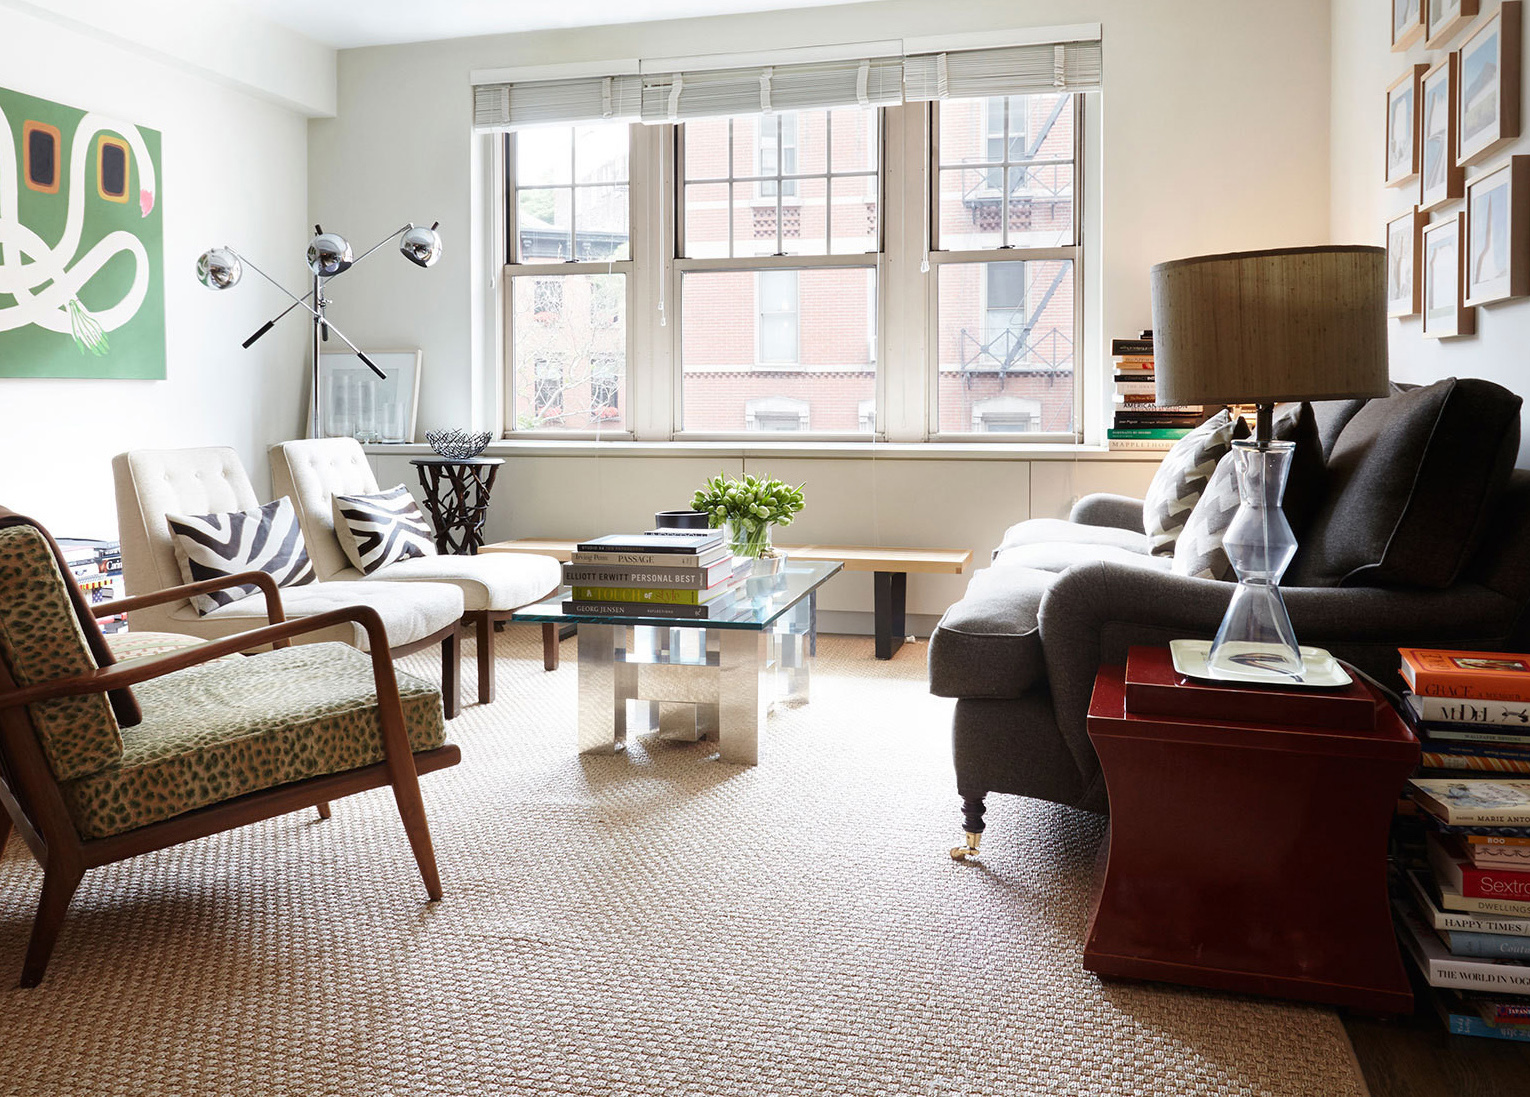
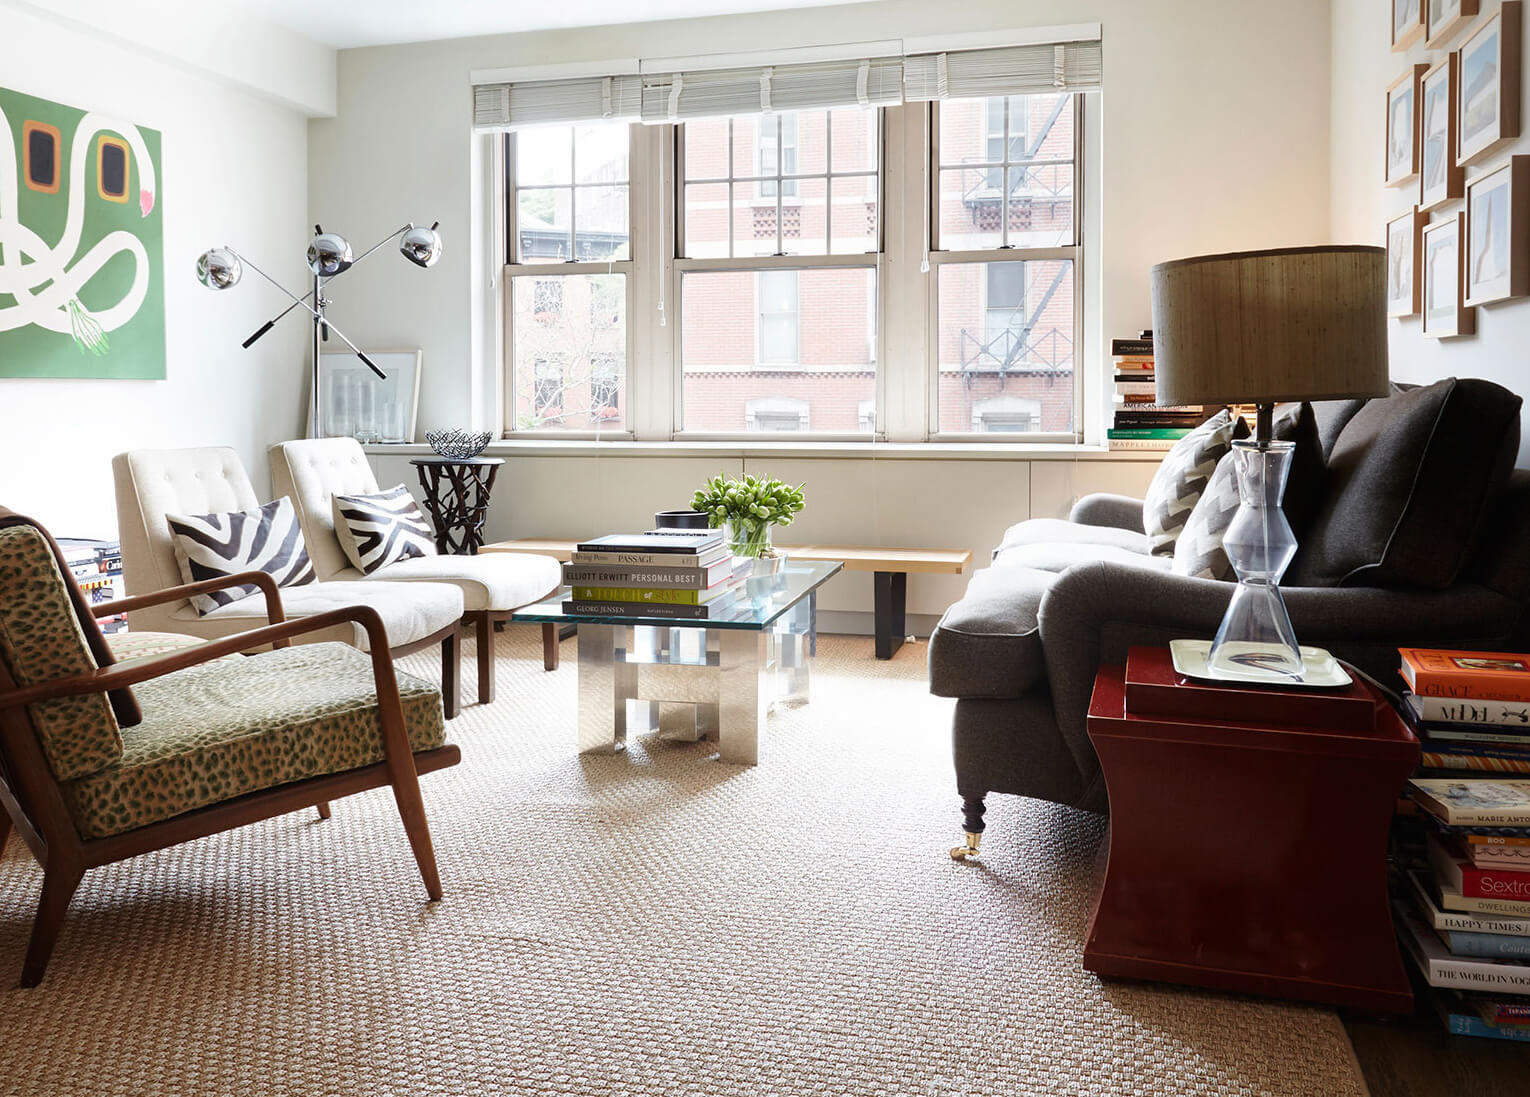
optimize images

Changed region(s): [[0.4608, 0.4339, 0.5222, 0.4649]]

diff --git a/client/src/Components/Footer/Footer.js b/client/src/Components/Footer/Footer.js
@@ -13,43 +13,46 @@ import {
   FaInstagram,
   FaLinkedinIn,
 } from "react-icons/fa";
-import logo from "./freebie-logo.png"
-
+import logo from "./freebie-logo.webp";
 
 const Footer = () => {
-
   const signNewsletter = (e) => {
-    e.preventDefault()
+    e.preventDefault();
     const { email } = e.target.elements;
     toastr.options = {
-      "closeButton": true,
-      "debug": false,
-      "newestOnTop": false,
-      "progressBar": true,
-      "positionClass": "toast-bottom-center",
-      "preventDuplicates": true,
-      "onclick": null,
-      "showDuration": "300",
-      "hideDuration": "1000",
-      "timeOut": "5000",
-      "extendedTimeOut": "1000",
-      "showEasing": "swing",
-      "hideEasing": "linear",
-      "showMethod": "fadeIn",
-      "hideMethod": "fadeOut"
-    }
+      closeButton: true,
+      debug: false,
+      newestOnTop: false,
+      progressBar: true,
+      positionClass: "toast-bottom-center",
+      preventDuplicates: true,
+      onclick: null,
+      showDuration: "300",
+      hideDuration: "1000",
+      timeOut: "5000",
+      extendedTimeOut: "1000",
+      showEasing: "swing",
+      hideEasing: "linear",
+      showMethod: "fadeIn",
+      hideMethod: "fadeOut",
+    };
     if (email.value) {
-      toastr["success"]("For Subscribing to our Newsletter!", "Thank You!")
+      toastr["success"]("For Subscribing to our Newsletter!", "Thank You!");
     } else {
-      toastr["error"]("Please try again, with a valid email!", "Something went wrong")
+      toastr["error"](
+        "Please try again, with a valid email!",
+        "Something went wrong"
+      );
     }
-  }
+  };
 
   return (
     <footer className="footerContainer">
       <div className="footerInputContainer">
         <div className="footerLogoContainer">
-          <div className="footerLogo"><img src={logo} alt="" /></div>
+          <div className="footerLogo">
+            <img src={logo} alt="" />
+          </div>
           <div className="footerAddress">
             <IoLocationSharp className="icon" />
             <h3>10785 Mitte, Berlin, DE</h3>
@@ -67,54 +70,97 @@ const Footer = () => {
           <div className="footerDetailsTips">
             <h3>Tips And Help</h3>
             <ul>
-              <li><a rel="noreferrer" target="_blank" href="https://stackoverflow.com/">Help</a></li>
-              <li><a rel="noreferrer" target="_blank" href="https://reactjs.org/docs/create-a-new-react-app.html">Information</a></li>
-              <li><a rel="noreferrer" target="_blank" href="https://docs.npmjs.com/cli/v7/configuring-npm/package-json">Blog</a></li>
-              <li><a rel="noreferrer" target="_blank" href="https://developers.google.com/newsletter">Newsletter</a></li>
+              <li>
+                <a
+                  rel="noreferrer"
+                  target="_blank"
+                  href="https://stackoverflow.com/"
+                >
+                  Help
+                </a>
+              </li>
+              <li>
+                <a
+                  rel="noreferrer"
+                  target="_blank"
+                  href="https://reactjs.org/docs/create-a-new-react-app.html"
+                >
+                  Information
+                </a>
+              </li>
+              <li>
+                <a
+                  rel="noreferrer"
+                  target="_blank"
+                  href="https://docs.npmjs.com/cli/v7/configuring-npm/package-json"
+                >
+                  Blog
+                </a>
+              </li>
+              <li>
+                <a
+                  rel="noreferrer"
+                  target="_blank"
+                  href="https://developers.google.com/newsletter"
+                >
+                  Newsletter
+                </a>
+              </li>
             </ul>
           </div>
           <div className="footerDetailsLinks">
             <h3>Quick Links</h3>
             <ul>
-              <li> <NavLink to="/home">Home</NavLink> </li>
-              <li> <NavLink to="/freebies">Freebies</NavLink> </li>
-              <li> <NavLink to="/contact">Contact Us</NavLink> </li>
+              <li>
+                {" "}
+                <NavLink to="/home">Home</NavLink>{" "}
+              </li>
+              <li>
+                {" "}
+                <NavLink to="/freebies">Freebies</NavLink>{" "}
+              </li>
+              <li>
+                {" "}
+                <NavLink to="/contact">Contact Us</NavLink>{" "}
+              </li>
             </ul>
           </div>
           <div className="footerDetailsApps">
             <h3>Check Our App</h3>
             <ReactStoreBadges
-              platform={'ios'}
-              url={'https://www.apple.com/app-store/'}
-              locale={'en-us'}
+              platform={"ios"}
+              url={"https://www.apple.com/app-store/"}
+              locale={"en-us"}
               className="footerDetailsAppsApple"
               target="_blank"
             />
 
             <ReactStoreBadges
-              platform={'android'}
-              url={'https://play.google.com/store'}
-              locale={'en-us'}
+              platform={"android"}
+              url={"https://play.google.com/store"}
+              locale={"en-us"}
               className="footerDetailsAppsAndroid"
               target="_blank"
             />
-
           </div>
           <div className="footerDetailsSubscribe">
             <h3>Subscribe</h3>
-            <div >
-
-              <form className="footerDetailsSubscribeInput" action="" onSubmit={signNewsletter}>
+            <div>
+              <form
+                className="footerDetailsSubscribeInput"
+                action=""
+                onSubmit={signNewsletter}
+              >
                 <input id="email" type="email" placeholder="Email Address" />
-                <button type="submitButton"><FaPaperPlane size={16} /></button>
+                <button type="submitButton">
+                  <FaPaperPlane size={16} />
+                </button>
               </form>
-
             </div>
             <span>Get the latest updates in your mailbox!</span>
           </div>
         </div>
         <div className="footerSocialMedia">
-
           <a rel="noreferrer" target="_blank" href="https://www.facebook.com/">
             <div className="footerSocialMediaFacebook">
               <FaFacebookF size={20} className="icon" />
@@ -133,19 +179,26 @@ const Footer = () => {
             </div>
           </a>
 
-          <a rel="noreferrer" target="_blank" href="https://github.com/Ratko-Sim/brah">
+          <a
+            rel="noreferrer"
+            target="_blank"
+            href="https://github.com/Ratko-Sim/brah"
+          >
             <div className="footerSocialMediaGithub">
               <FiGithub size={20} className="icon" />
             </div>
           </a>
-
         </div>
         <div className="footerCopyright">
-          <span> &copy; {(new Date().getFullYear())} Freebie GmbH. All Rights Reserved  <NavLink to="/privacy-policy">- Privacy Policy</NavLink>.</span>
+          <span>
+            {" "}
+            &copy; {new Date().getFullYear()} Freebie GmbH. All Rights Reserved{" "}
+            <NavLink to="/privacy-policy">- Privacy Policy</NavLink>.
+          </span>
         </div>
       </div>
     </footer>
-  )
-}
+  );
+};
 
-export default Footer
+export default Footer;

diff --git a/client/src/Components/AuthForm/AuthForm.scss b/client/src/Components/AuthForm/AuthForm.scss
@@ -161,7 +161,7 @@
             hsla(0, 0%, 0%, 0.829),
             hsla(0, 4%, 28%, 0.712)
           ),
-          url("./random-image.jpg");
+          url("./random-image.webp");
         background-position: center;
         background-size: cover;
         color: var(--text-color-light);
